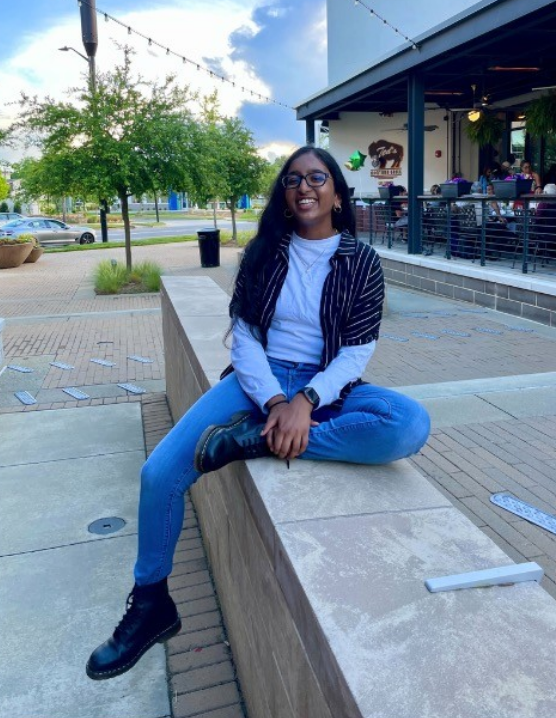
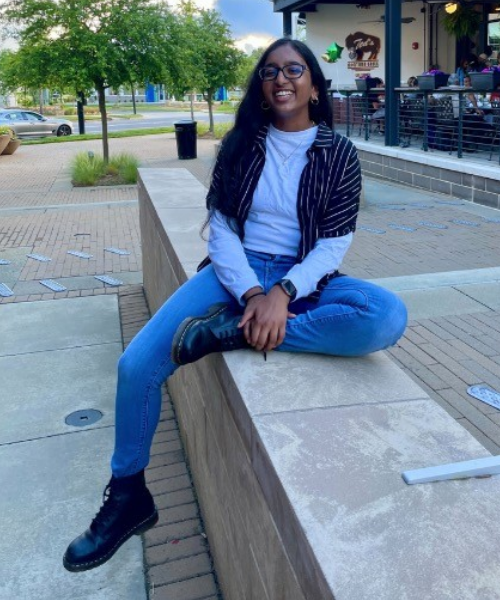
style edits
added space around button and tried aligning it right
resized officer photos

diff --git a/about.html b/about.html
@@ -56,31 +56,35 @@ $(function(){
 </div>
 </div>
 
-<button class="button" onclick="window.location.href = 'https://heellife.unc.edu/organization/wics';">Join Us</button>
+<p> </p> <!-- empty line to add some white space -->
+<button class="button" onclick="window.location.href = 'https://heellife.unc.edu/organization/wics';">Join us</button>
+<p> </p> <!-- empty line to add some white space -->
 
-<hr>
+<hr>  <!-- horizontal line - content divider -->
 
-<h2 class = "officersT">Ofcicers</h2>   <!-- Officers Heading -->
+<h2 class = "officersT" text-align: center>Officers</h2>   <!-- Officers Heading -->
 
 <div class = "row">  <!-- div containing pictures of all the officers-->
+<p> </p>  <!-- empty line to add some white space -->
+
 <div class = "col rounded">  <!-- Lizi -->
     <p class="namesT">PRESIDENT: Elizabeth Singletary</p>
-    <img src = Lizi.png width = "100" height = "100">
+    <img src = Lizi.png width = "250" height = "300">
 </div>
 
 <div class = "col rounded">  <!-- Tuna -->
     <p class="namesT">VICE PRESIDENT: Tuna Vu</p>
-    <img src = Tuna.png width = "100" height = "100">
+    <img src = Tuna.png width = "250" height = "300">
 </div>
 
 <div class = "col rounded">  <!-- Lia -->
     <p class="namesT">GRAPHIC DESIGNER: Lia Abed</p>
-    <img src = Lia.png width = "100" height = "100">
+    <img src = Lia.png width = "250" height = "300">
 </div>
 
 <div class = "col rounded">  <!-- Bhargavi -->
     <p class="namesT">TREASURER: Bhargavi Chinni</p>
-    <img src = Bhargavi.png width = "100" height = "100">
+    <img src = Bhargavi.png width = "250" height = "300">
 </div>
 </div>
 

diff --git a/about.css b/about.css
@@ -46,6 +46,9 @@ color: #700083;
     font-size: 20px;
     line-height: 24px;
     color: #FFFFFF;
+
+    position: relative;
+    float: right;
 }
 
 .officersT {
@@ -63,7 +66,7 @@ color: #700083;
     font-family: 'Inter';
     font-style: normal;
     font-weight: 800;
-    font-size: 40px;
+    font-size: 25px;
     line-height: 48px;
     color: #700083;
   }
